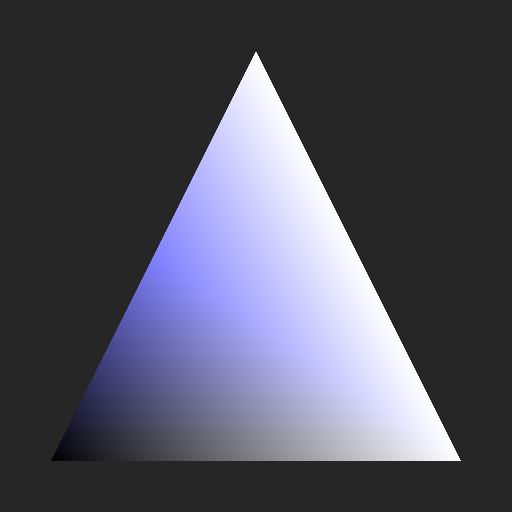
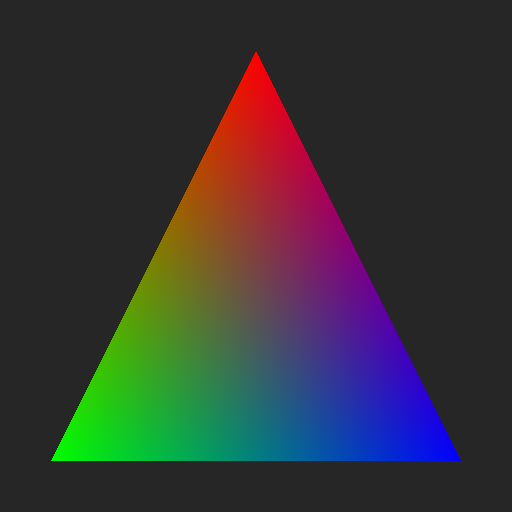
Fix vertex struct alignment and regenerate before/after screenshots
SIMD4<Float> has 16-byte alignment in Swift, causing 8 bytes of
padding between position and color in the Vertex struct. The vertex
descriptor pointed to offset 8 but color was actually at offset 16,
producing wrong colors. Switch to packed Float fields (24 bytes,
no padding) so the layout matches the descriptor.

Regenerate both screenshots with the corrected struct.

diff --git a/examples/visual-demo/main.swift b/examples/visual-demo/main.swift
@@ -12,15 +12,17 @@ let HEIGHT = 512
 
 // --- Vertex Data ---
 
+// Packed vertex layout: float2 position + float4 color = 24 bytes, no padding
 struct Vertex {
-    var position: SIMD2<Float>
-    var color: SIMD4<Float>
+    var px: Float; var py: Float           // position
+    var cr: Float; var cg: Float           // color
+    var cb: Float; var ca: Float
 }
 
 let vertices: [Vertex] = [
-    Vertex(position: SIMD2<Float>(0.9, 0.8),   color: SIMD4<Float>(1, 0, 0, 1)),  // RED
-    Vertex(position: SIMD2<Float>(-0.8, -0.8),  color: SIMD4<Float>(0, 1, 0, 1)),  // GREEN
-    Vertex(position: SIMD2<Float>(0.8, -0.8),   color: SIMD4<Float>(0, 0, 1, 1)),  // BLUE
+    Vertex(px: 0.9, py: 0.8,   cr: 1, cg: 0, cb: 0, ca: 1),  // RED
+    Vertex(px: -0.8, py: -0.8, cr: 0, cg: 1, cb: 0, ca: 1),  // GREEN
+    Vertex(px: 0.8, py: -0.8,  cr: 0, cg: 0, cb: 1, ca: 1),  // BLUE
 ]
 
 // --- Metal Setup ---
@@ -60,12 +62,12 @@ let vertexDescriptor = MTLVertexDescriptor()
 vertexDescriptor.attributes[0].format = .float2
 vertexDescriptor.attributes[0].offset = 0
 vertexDescriptor.attributes[0].bufferIndex = 0
-// color: float4 at offset 8
+// color: float4 at offset 8 (right after float2 position)
 vertexDescriptor.attributes[1].format = .float4
-vertexDescriptor.attributes[1].offset = MemoryLayout<SIMD2<Float>>.stride
+vertexDescriptor.attributes[1].offset = 8
 vertexDescriptor.attributes[1].bufferIndex = 0
-// stride
-vertexDescriptor.layouts[0].stride = MemoryLayout<Vertex>.stride
+// stride: 6 floats = 24 bytes
+vertexDescriptor.layouts[0].stride = 24
 
 let pipelineDesc = MTLRenderPipelineDescriptor()
 pipelineDesc.vertexFunction = vertFunc
@@ -86,7 +88,7 @@ do {
 var vertexData = vertices
 let vertexBuffer = device.makeBuffer(
     bytes: &vertexData,
-    length: MemoryLayout<Vertex>.stride * vertices.count,
+    length: 24 * vertices.count,
     options: .storageModeShared
 )!
 vertexBuffer.label = "Triangle Vertices"
